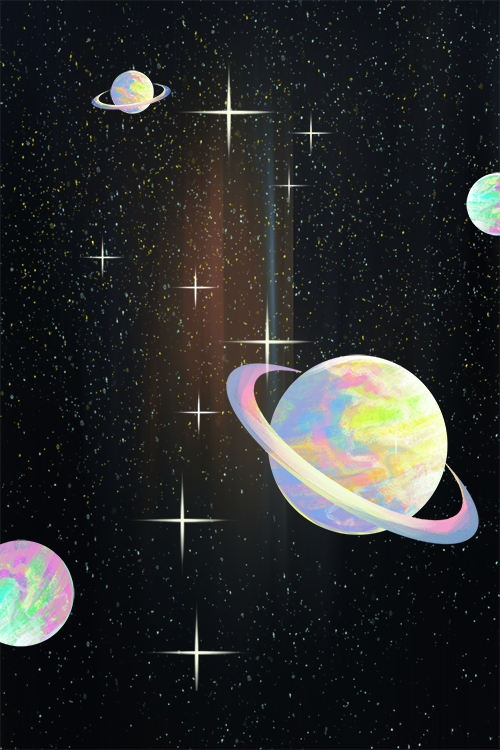
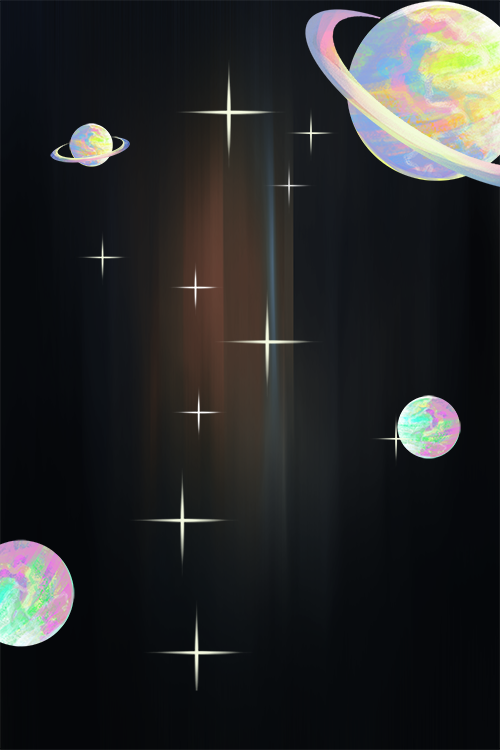
Modified background elements for space shooter
Moved the planets in the background to clear the middle screen for the space shooter

diff --git a/js/SceneMain.js b/js/SceneMain.js
@@ -9,6 +9,7 @@ class SceneMain extends Phaser.Scene {
   preload() {
   	this.load.image("sprBg0", "content/sprBg0.png");
   	this.load.image("sprBg1", "content/sprBg1.png");
+  	this.load.image("sprBg2", "content/sprBg2.png");
   	this.load.image("sprBg3", "content/sprBg3.png");
   	this.load.image("sprBg4", "content/sprBg4.png");
   	this.load.image("sprBg5", "content/sprBg5.png");
@@ -41,7 +42,7 @@ class SceneMain extends Phaser.Scene {
   }
 
   create() {
-  	this.add.image(0,0,"sprBg3").setOrigin(0,0);
+  	this.add.image(0,0,"sprBg2").setOrigin(0,0);
   	this.score = 0;
   	this.scoreText = this.add.text(16, 16, 'Score: 0', { fontSize: '30px', fontStyle: 'bold', fill: '#fff' });
   	this.enemyBoss = undefined;
@@ -82,13 +83,13 @@ class SceneMain extends Phaser.Scene {
 	//   laser: this.sound.add("sndLaser")
 	// };
 
-	this.backgrounds = [];
-	for (var i = 0; i < 3; i++) { // create five scrolling backgrounds
-	  var keys = ["sprBg5"];
-	  var key = keys[Phaser.Math.Between(0, keys.length - 1)];
-	  var bg = new ScrollingBackground(this, key, i * 10);
-	  this.backgrounds.push(bg);
-	}
+	// this.backgrounds = [];
+	// for (var i = 0; i < 3; i++) { // create five scrolling backgrounds
+	//   var keys = ["sprBg5"];
+	//   var key = keys[Phaser.Math.Between(0, keys.length - 1)];
+	//   var bg = new ScrollingBackground(this, key, i * 10);
+	//   this.backgrounds.push(bg);
+	// }
 
 
     this.player = new Player(
@@ -280,10 +281,10 @@ class SceneMain extends Phaser.Scene {
       }
     }
 
-    // background warping
-    for (var i = 0; i < this.backgrounds.length; i++) {
-      this.backgrounds[i].update();
-    }
+    // // background warping
+    // for (var i = 0; i < this.backgrounds.length; i++) {
+    //   this.backgrounds[i].update();
+    // }
   }
 
   getEnemiesByType(type) {

diff --git a/js/SceneMainMenu.js b/js/SceneMainMenu.js
@@ -6,6 +6,7 @@ class SceneMainMenu extends Phaser.Scene {
   preload() {
   	this.load.image("sprBg0", "content/sprBg0.png");
 	this.load.image("sprBg1", "content/sprBg1.png");
+	this.load.image("sprBg2", "content/sprBg2.png");
 	this.load.image("sprBg3", "content/sprBg3.png");
 	this.load.image("sprBg4", "content/sprBg4.png");
 	this.load.image("sprBg5", "content/sprBg5.png");
@@ -22,7 +23,7 @@ class SceneMainMenu extends Phaser.Scene {
 
   create() {
 
-  	this.add.image(0,0,"sprBg3").setOrigin(0,0);
+  	this.add.image(0,0,"sprBg2").setOrigin(0,0);
  //    this.sfx = {
 	//   btnOver: this.sound.add("sndBtnOver"),
 	//   btnDown: this.sound.add("sndBtnDown")
@@ -65,18 +66,18 @@ class SceneMainMenu extends Phaser.Scene {
 
 	this.title.setOrigin(0.5);
 
-	this.backgrounds = [];
-	for (var i = 0; i < 3; i++) {
-	  var keys = ["sprBg4", "sprBg1"];
-	  var key = keys[Phaser.Math.Between(0, keys.length - 1)];
-	  var bg = new ScrollingBackground(this, key, i * 8);
-	  this.backgrounds.push(bg);
-	}
+	// this.backgrounds = [];
+	// for (var i = 0; i < 3; i++) {
+	//   var keys = ["sprBg4", "sprBg1"];
+	//   var key = keys[Phaser.Math.Between(0, keys.length - 1)];
+	//   var bg = new ScrollingBackground(this, key, i * 8);
+	//   this.backgrounds.push(bg);
+	// }
   }
 
-  update() {
-  	for (var i = 0; i < this.backgrounds.length; i++) {
-	  this.backgrounds[i].update();
-	}
-  }
+ //  update() {
+ //  	for (var i = 0; i < this.backgrounds.length; i++) {
+	//   this.backgrounds[i].update();
+	// }
+ //  }
 }

diff --git a/js/SceneGameOver.js b/js/SceneGameOver.js
@@ -5,7 +5,7 @@ class SceneGameOver extends Phaser.Scene {
 
   create() {
 
-  	this.add.image(0,0,"sprBg3").setOrigin(0,0);
+  	this.add.image(0,0,"sprBg2").setOrigin(0,0);
 
   	this.title = this.add.text(this.game.config.width * 0.5, 128, "再试一次吧", {
 	  fontFamily: 'monospace',
@@ -49,19 +49,19 @@ class SceneGameOver extends Phaser.Scene {
     }, this);
 
 
-    this.backgrounds = [];
-	for (var i = 0; i < 3; i++) {
-	  var keys = ["sprBg4", "sprBg1"];
-	  var key = keys[Phaser.Math.Between(0, keys.length - 1)];
-	  var bg = new ScrollingBackground(this, key, i * 8);
-	  this.backgrounds.push(bg);
-	}
+ //    this.backgrounds = [];
+	// for (var i = 0; i < 3; i++) {
+	//   var keys = ["sprBg4", "sprBg1"];
+	//   var key = keys[Phaser.Math.Between(0, keys.length - 1)];
+	//   var bg = new ScrollingBackground(this, key, i * 8);
+	//   this.backgrounds.push(bg);
+	// }
   }
 
 
   update() {
-  	for (var i = 0; i < this.backgrounds.length; i++) {
-	  this.backgrounds[i].update();
-	}
+ //  	for (var i = 0; i < this.backgrounds.length; i++) {
+	//   this.backgrounds[i].update();
+	// }
   }
 }
